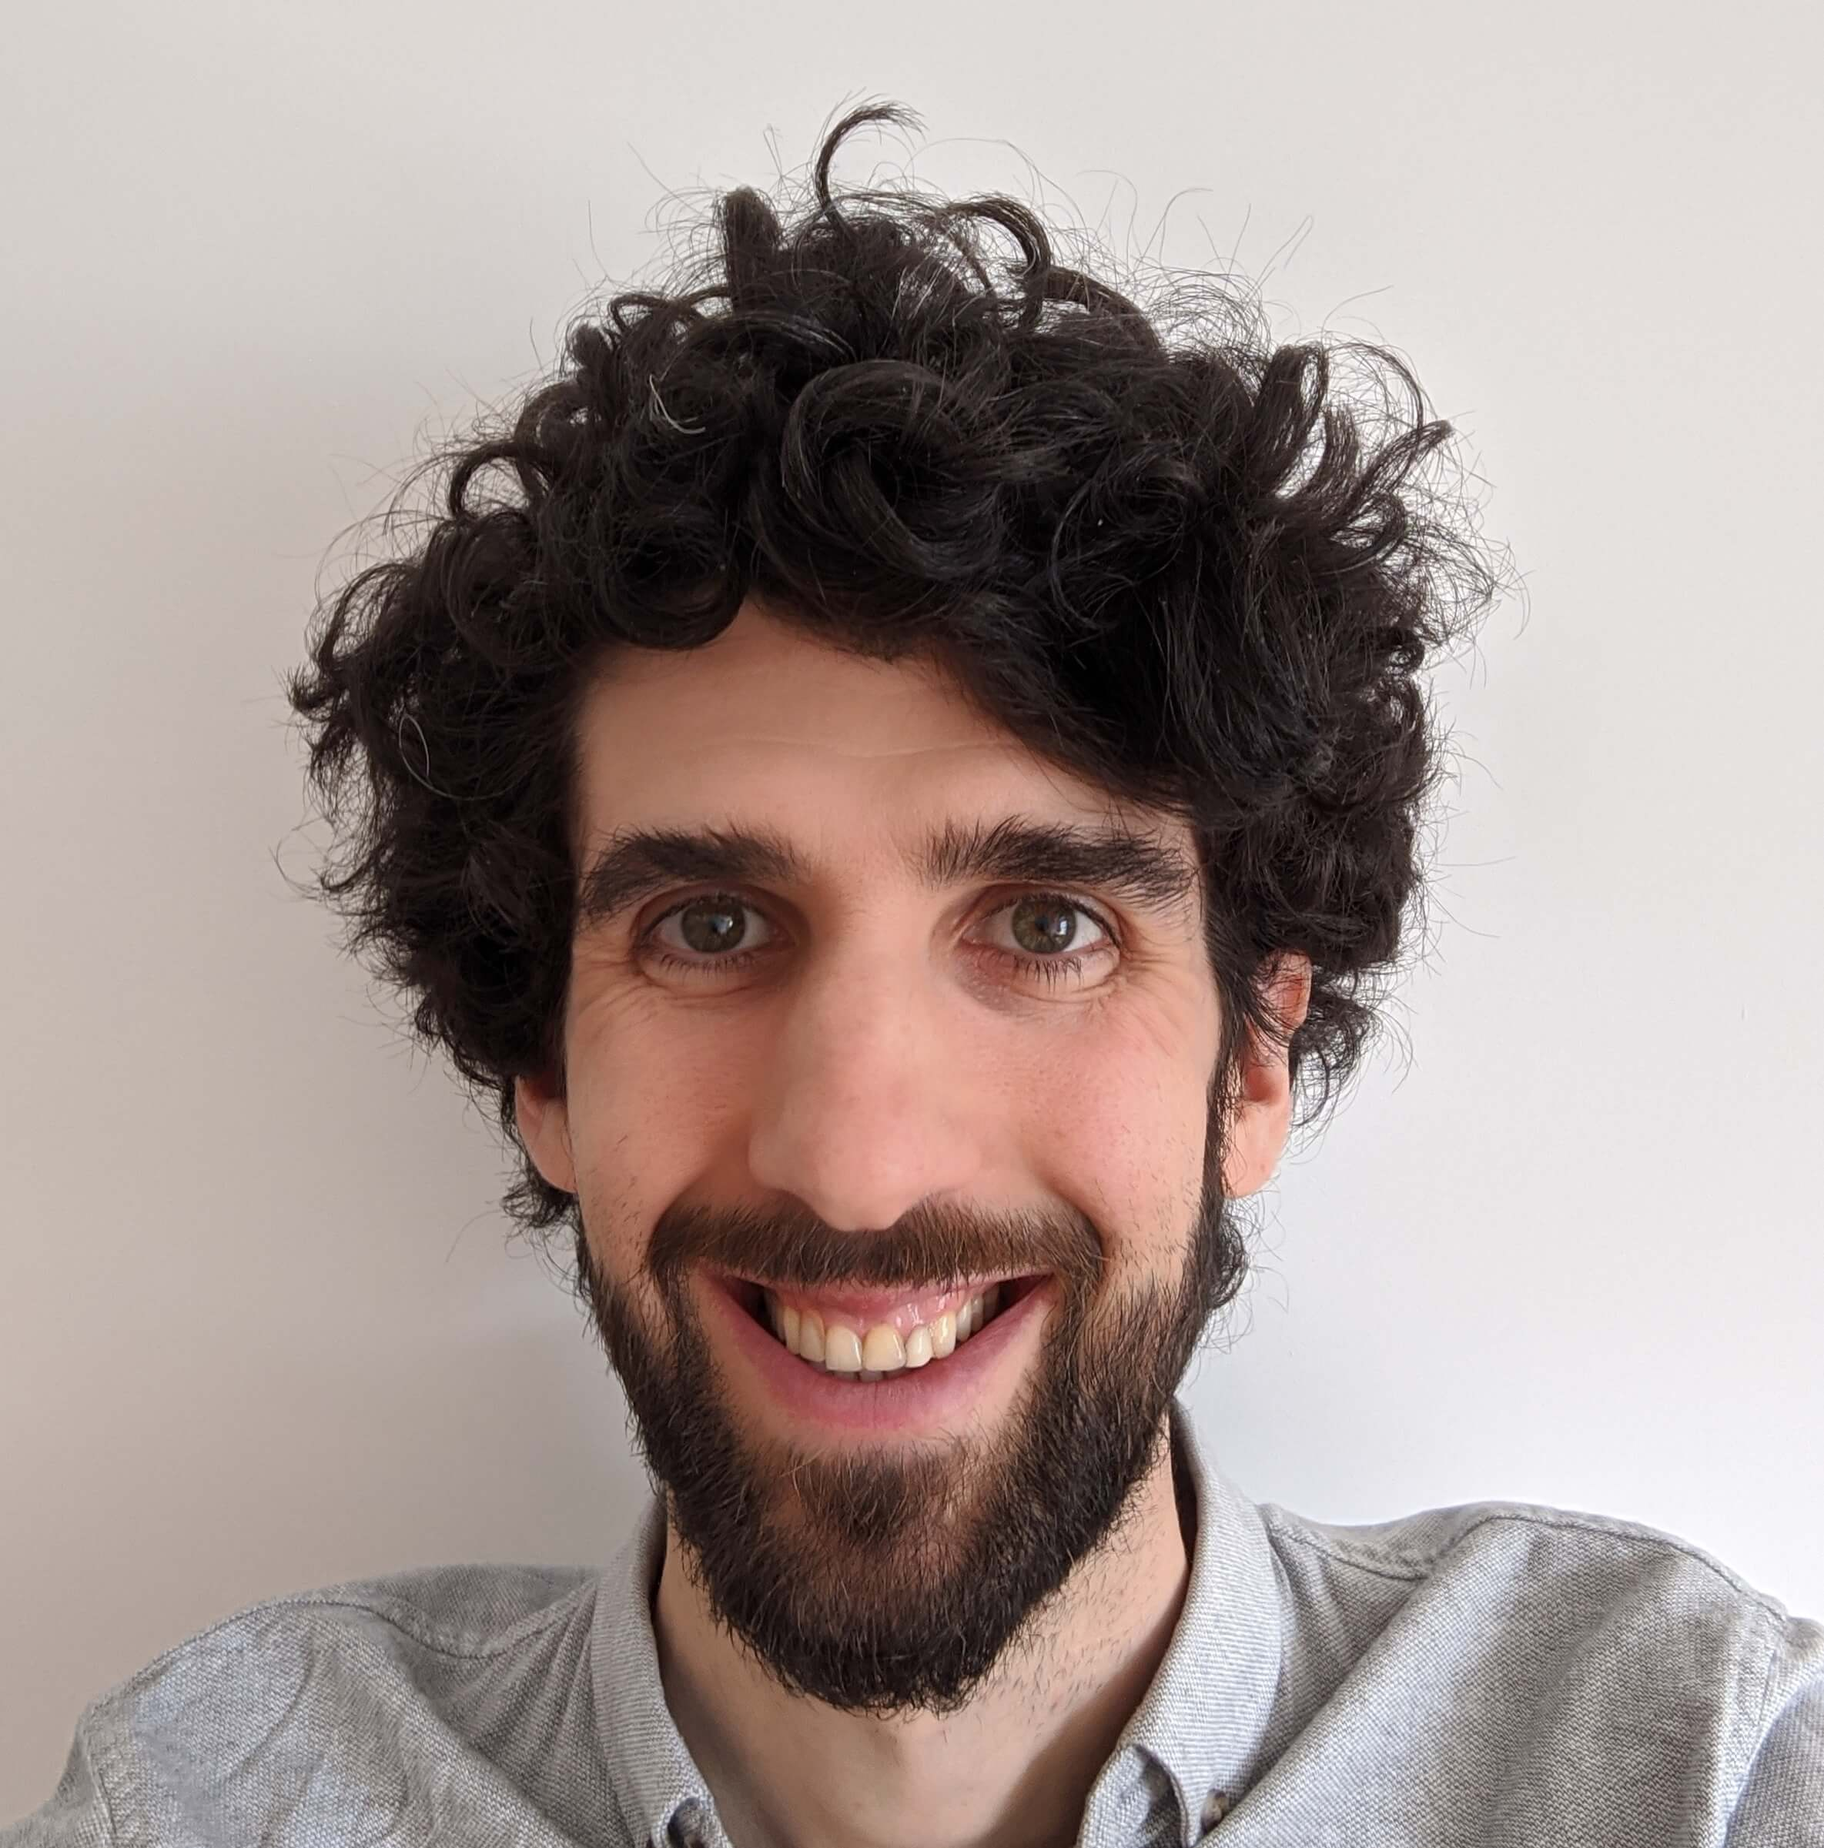
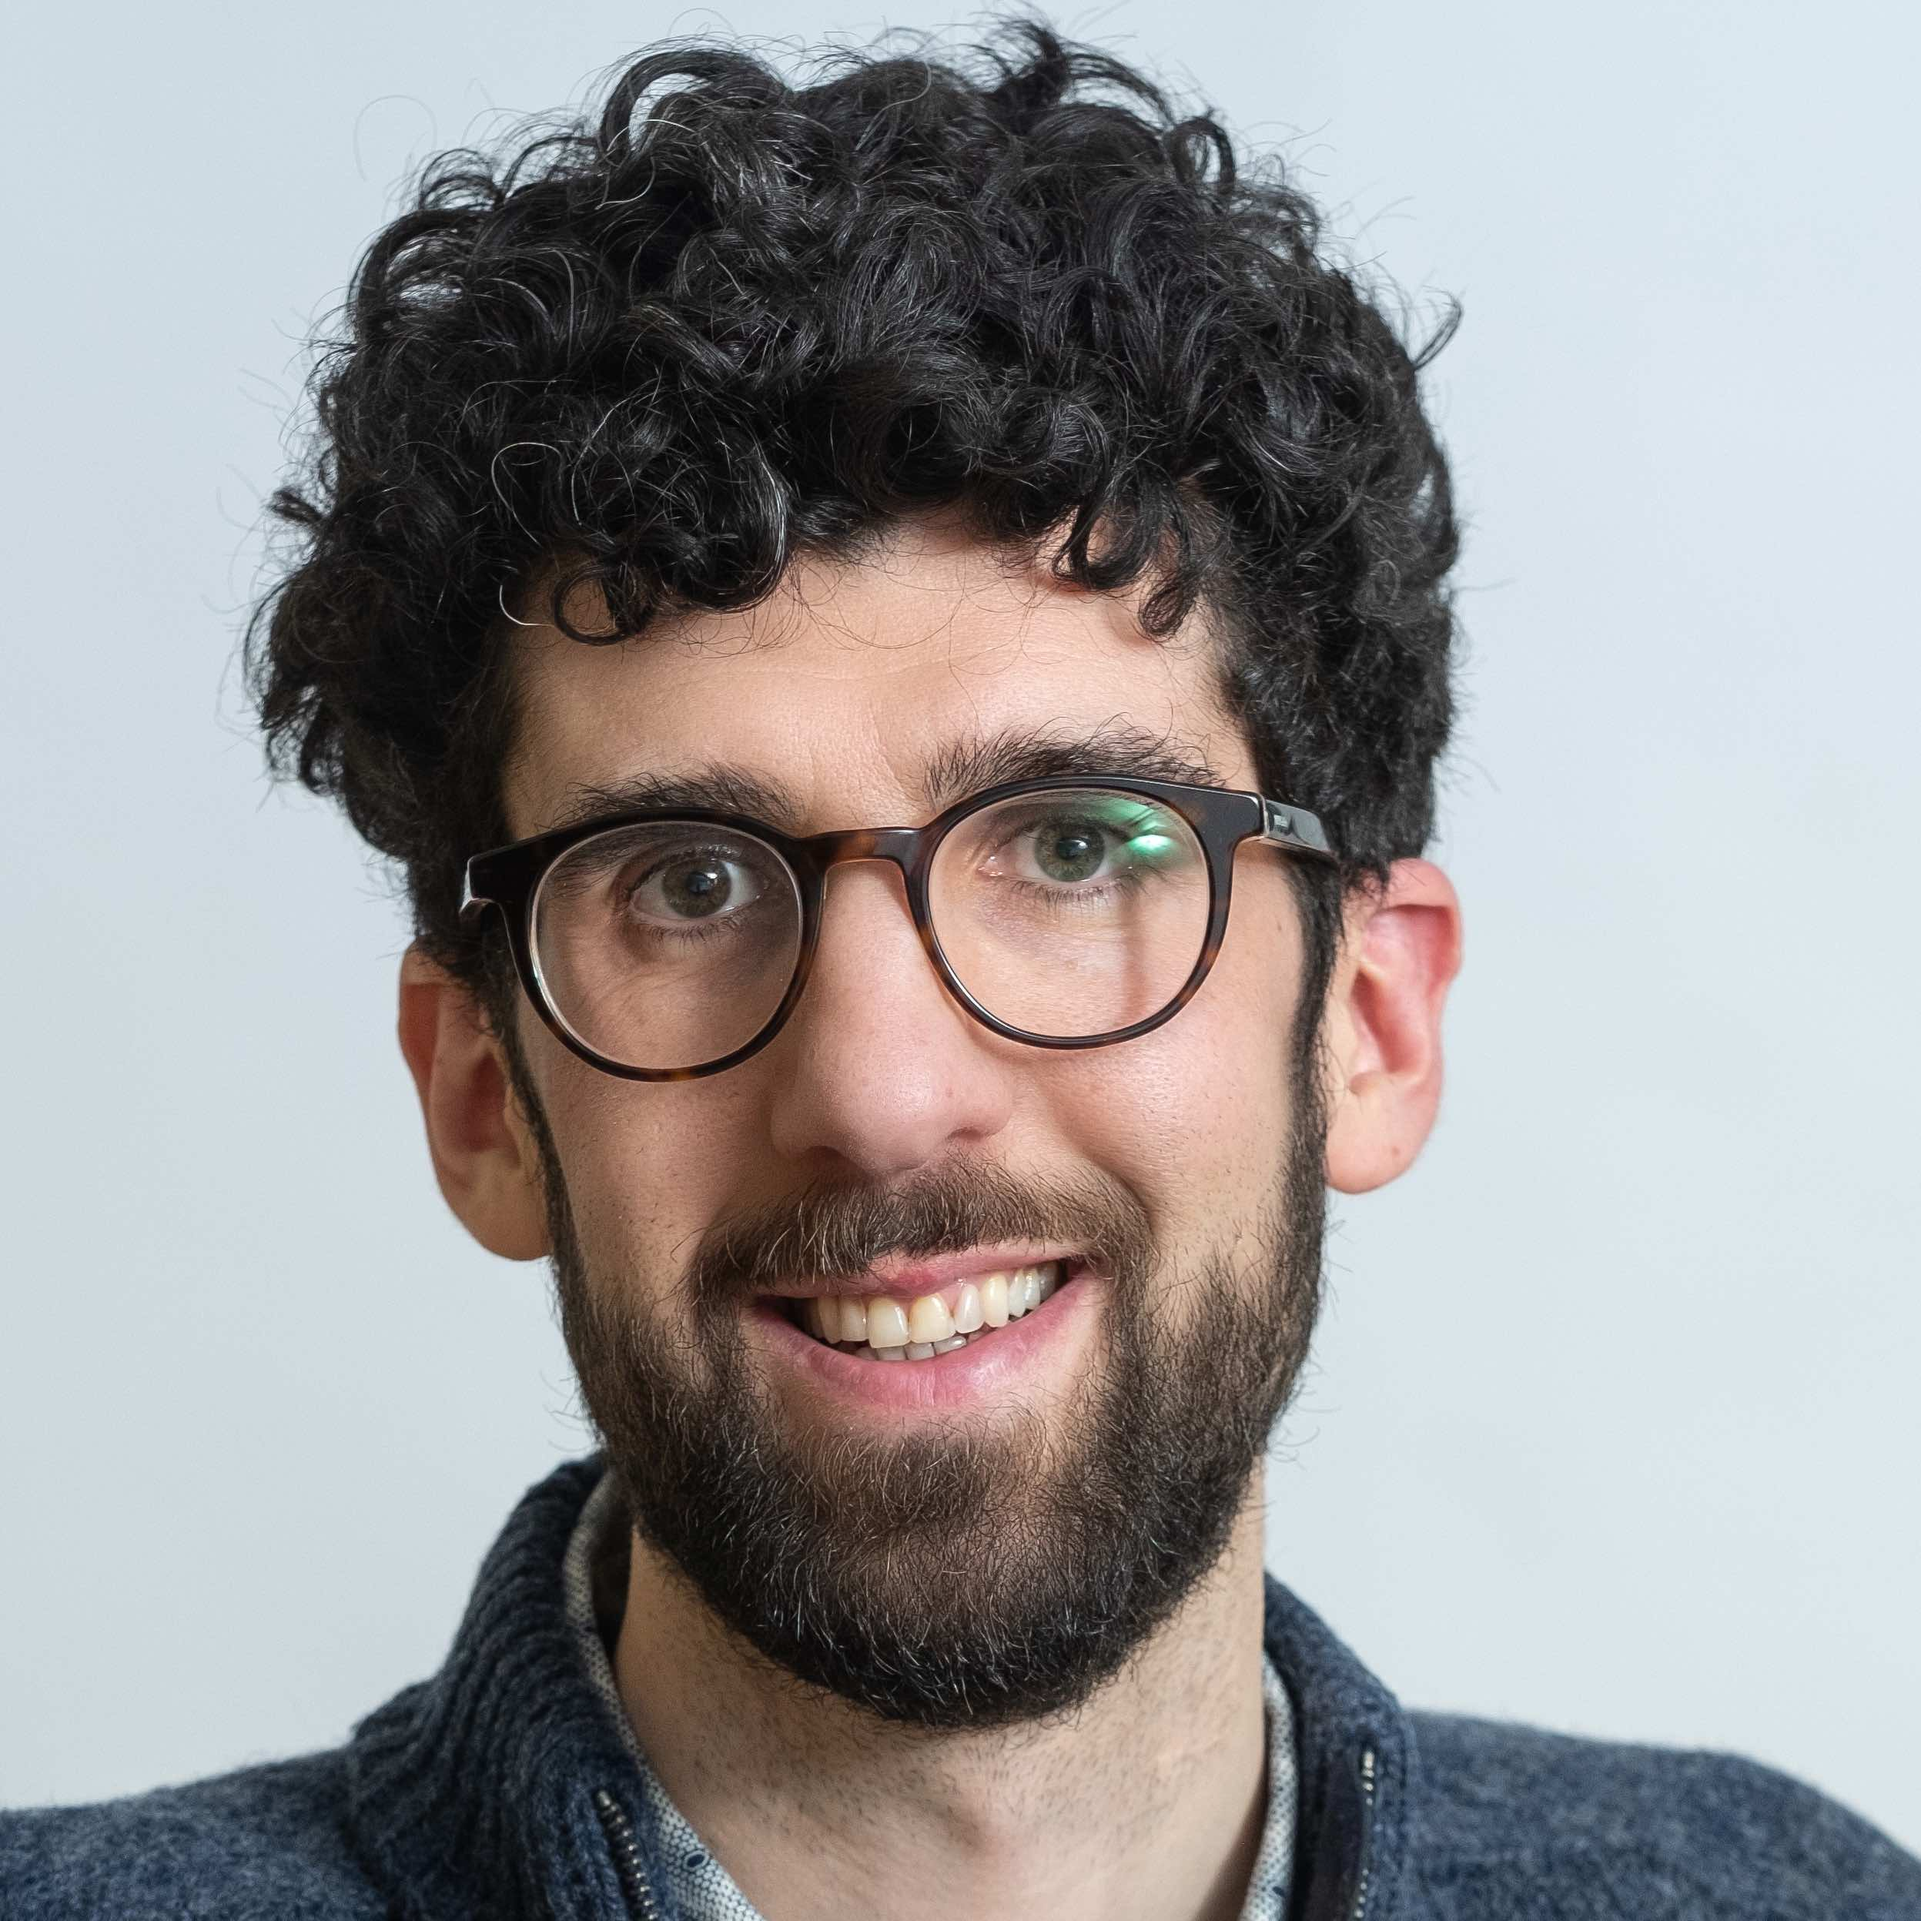
profile photo update

diff --git a/fr/outreach/cordis/index.html b/fr/outreach/cordis/index.html
@@ -729,7 +729,7 @@
 <div class="media author-card" itemscope itemtype="http://schema.org/Person">
   
   
-  <img class="portrait mr-3" src="/fr/author/admin/avatar_hu363cb1fe97a4bba3ce1f1b26c0c1c873_328889_250x250_fill_q90_lanczos_center.jpg" itemprop="image" alt="Avatar">
+  <img class="portrait mr-3" src="/fr/author/admin/avatar_hu0dd8fd81d1d238d18096aa4ea24c8ca5_362575_250x250_fill_q90_lanczos_center.jpg" itemprop="image" alt="Avatar">
   
 
   <div class="media-body">

diff --git a/fr/outreach/discover-society/index.html b/fr/outreach/discover-society/index.html
@@ -729,7 +729,7 @@
 <div class="media author-card" itemscope itemtype="http://schema.org/Person">
   
   
-  <img class="portrait mr-3" src="/fr/author/admin/avatar_hu363cb1fe97a4bba3ce1f1b26c0c1c873_328889_250x250_fill_q90_lanczos_center.jpg" itemprop="image" alt="Avatar">
+  <img class="portrait mr-3" src="/fr/author/admin/avatar_hu0dd8fd81d1d238d18096aa4ea24c8ca5_362575_250x250_fill_q90_lanczos_center.jpg" itemprop="image" alt="Avatar">
   
 
   <div class="media-body">

diff --git a/fr/outreach/globe-and-mail/index.html b/fr/outreach/globe-and-mail/index.html
@@ -729,7 +729,7 @@
 <div class="media author-card" itemscope itemtype="http://schema.org/Person">
   
   
-  <img class="portrait mr-3" src="/fr/author/admin/avatar_hu363cb1fe97a4bba3ce1f1b26c0c1c873_328889_250x250_fill_q90_lanczos_center.jpg" itemprop="image" alt="Avatar">
+  <img class="portrait mr-3" src="/fr/author/admin/avatar_hu0dd8fd81d1d238d18096aa4ea24c8ca5_362575_250x250_fill_q90_lanczos_center.jpg" itemprop="image" alt="Avatar">
   
 
   <div class="media-body">

diff --git a/fr/outreach/le-monde/index.html b/fr/outreach/le-monde/index.html
@@ -729,7 +729,7 @@
 <div class="media author-card" itemscope itemtype="http://schema.org/Person">
   
   
-  <img class="portrait mr-3" src="/fr/author/admin/avatar_hu363cb1fe97a4bba3ce1f1b26c0c1c873_328889_250x250_fill_q90_lanczos_center.jpg" itemprop="image" alt="Avatar">
+  <img class="portrait mr-3" src="/fr/author/admin/avatar_hu0dd8fd81d1d238d18096aa4ea24c8ca5_362575_250x250_fill_q90_lanczos_center.jpg" itemprop="image" alt="Avatar">
   
 
   <div class="media-body">

diff --git a/fr/outreach/lse-british-politics-and-policy/index.html b/fr/outreach/lse-british-politics-and-policy/index.html
@@ -729,7 +729,7 @@
 <div class="media author-card" itemscope itemtype="http://schema.org/Person">
   
   
-  <img class="portrait mr-3" src="/fr/author/admin/avatar_hu363cb1fe97a4bba3ce1f1b26c0c1c873_328889_250x250_fill_q90_lanczos_center.jpg" itemprop="image" alt="Avatar">
+  <img class="portrait mr-3" src="/fr/author/admin/avatar_hu0dd8fd81d1d238d18096aa4ea24c8ca5_362575_250x250_fill_q90_lanczos_center.jpg" itemprop="image" alt="Avatar">
   
 
   <div class="media-body">

diff --git a/fr/outreach/macleans/index.html b/fr/outreach/macleans/index.html
@@ -729,7 +729,7 @@
 <div class="media author-card" itemscope itemtype="http://schema.org/Person">
   
   
-  <img class="portrait mr-3" src="/fr/author/admin/avatar_hu363cb1fe97a4bba3ce1f1b26c0c1c873_328889_250x250_fill_q90_lanczos_center.jpg" itemprop="image" alt="Avatar">
+  <img class="portrait mr-3" src="/fr/author/admin/avatar_hu0dd8fd81d1d238d18096aa4ea24c8ca5_362575_250x250_fill_q90_lanczos_center.jpg" itemprop="image" alt="Avatar">
   
 
   <div class="media-body">

diff --git a/fr/outreach/post/index.html b/fr/outreach/post/index.html
@@ -729,7 +729,7 @@
 <div class="media author-card" itemscope itemtype="http://schema.org/Person">
   
   
-  <img class="portrait mr-3" src="/fr/author/admin/avatar_hu363cb1fe97a4bba3ce1f1b26c0c1c873_328889_250x250_fill_q90_lanczos_center.jpg" itemprop="image" alt="Avatar">
+  <img class="portrait mr-3" src="/fr/author/admin/avatar_hu0dd8fd81d1d238d18096aa4ea24c8ca5_362575_250x250_fill_q90_lanczos_center.jpg" itemprop="image" alt="Avatar">
   
 
   <div class="media-body">

diff --git a/fr/outreach/stuk-rood-vlees/index.html b/fr/outreach/stuk-rood-vlees/index.html
@@ -729,7 +729,7 @@
 <div class="media author-card" itemscope itemtype="http://schema.org/Person">
   
   
-  <img class="portrait mr-3" src="/fr/author/admin/avatar_hu363cb1fe97a4bba3ce1f1b26c0c1c873_328889_250x250_fill_q90_lanczos_center.jpg" itemprop="image" alt="Avatar">
+  <img class="portrait mr-3" src="/fr/author/admin/avatar_hu0dd8fd81d1d238d18096aa4ea24c8ca5_362575_250x250_fill_q90_lanczos_center.jpg" itemprop="image" alt="Avatar">
   
 
   <div class="media-body">

diff --git a/fr/outreach/the-political-behavior-blog/index.html b/fr/outreach/the-political-behavior-blog/index.html
@@ -729,7 +729,7 @@
 <div class="media author-card" itemscope itemtype="http://schema.org/Person">
   
   
-  <img class="portrait mr-3" src="/fr/author/admin/avatar_hu363cb1fe97a4bba3ce1f1b26c0c1c873_328889_250x250_fill_q90_lanczos_center.jpg" itemprop="image" alt="Avatar">
+  <img class="portrait mr-3" src="/fr/author/admin/avatar_hu0dd8fd81d1d238d18096aa4ea24c8ca5_362575_250x250_fill_q90_lanczos_center.jpg" itemprop="image" alt="Avatar">
   
 
   <div class="media-body">

diff --git a/fr/outreach/the-social-policy-blog/index.html b/fr/outreach/the-social-policy-blog/index.html
@@ -729,7 +729,7 @@
 <div class="media author-card" itemscope itemtype="http://schema.org/Person">
   
   
-  <img class="portrait mr-3" src="/fr/author/admin/avatar_hu363cb1fe97a4bba3ce1f1b26c0c1c873_328889_250x250_fill_q90_lanczos_center.jpg" itemprop="image" alt="Avatar">
+  <img class="portrait mr-3" src="/fr/author/admin/avatar_hu0dd8fd81d1d238d18096aa4ea24c8ca5_362575_250x250_fill_q90_lanczos_center.jpg" itemprop="image" alt="Avatar">
   
 
   <div class="media-body">

diff --git a/fr/outreach/work-in-progress/index.html b/fr/outreach/work-in-progress/index.html
@@ -729,7 +729,7 @@
 <div class="media author-card" itemscope itemtype="http://schema.org/Person">
   
   
-  <img class="portrait mr-3" src="/fr/author/admin/avatar_hu363cb1fe97a4bba3ce1f1b26c0c1c873_328889_250x250_fill_q90_lanczos_center.jpg" itemprop="image" alt="Avatar">
+  <img class="portrait mr-3" src="/fr/author/admin/avatar_hu0dd8fd81d1d238d18096aa4ea24c8ca5_362575_250x250_fill_q90_lanczos_center.jpg" itemprop="image" alt="Avatar">
   
 
   <div class="media-body">

diff --git a/outreach/cordis/index.html b/outreach/cordis/index.html
@@ -727,7 +727,7 @@
 <div class="media author-card" itemscope itemtype="http://schema.org/Person">
   
   
-  <img class="portrait mr-3" src="/author/admin/avatar_hu363cb1fe97a4bba3ce1f1b26c0c1c873_328889_250x250_fill_q90_lanczos_center.jpg" itemprop="image" alt="Avatar">
+  <img class="portrait mr-3" src="/author/admin/avatar_hu0dd8fd81d1d238d18096aa4ea24c8ca5_362575_250x250_fill_q90_lanczos_center.jpg" itemprop="image" alt="Avatar">
   
 
   <div class="media-body">
